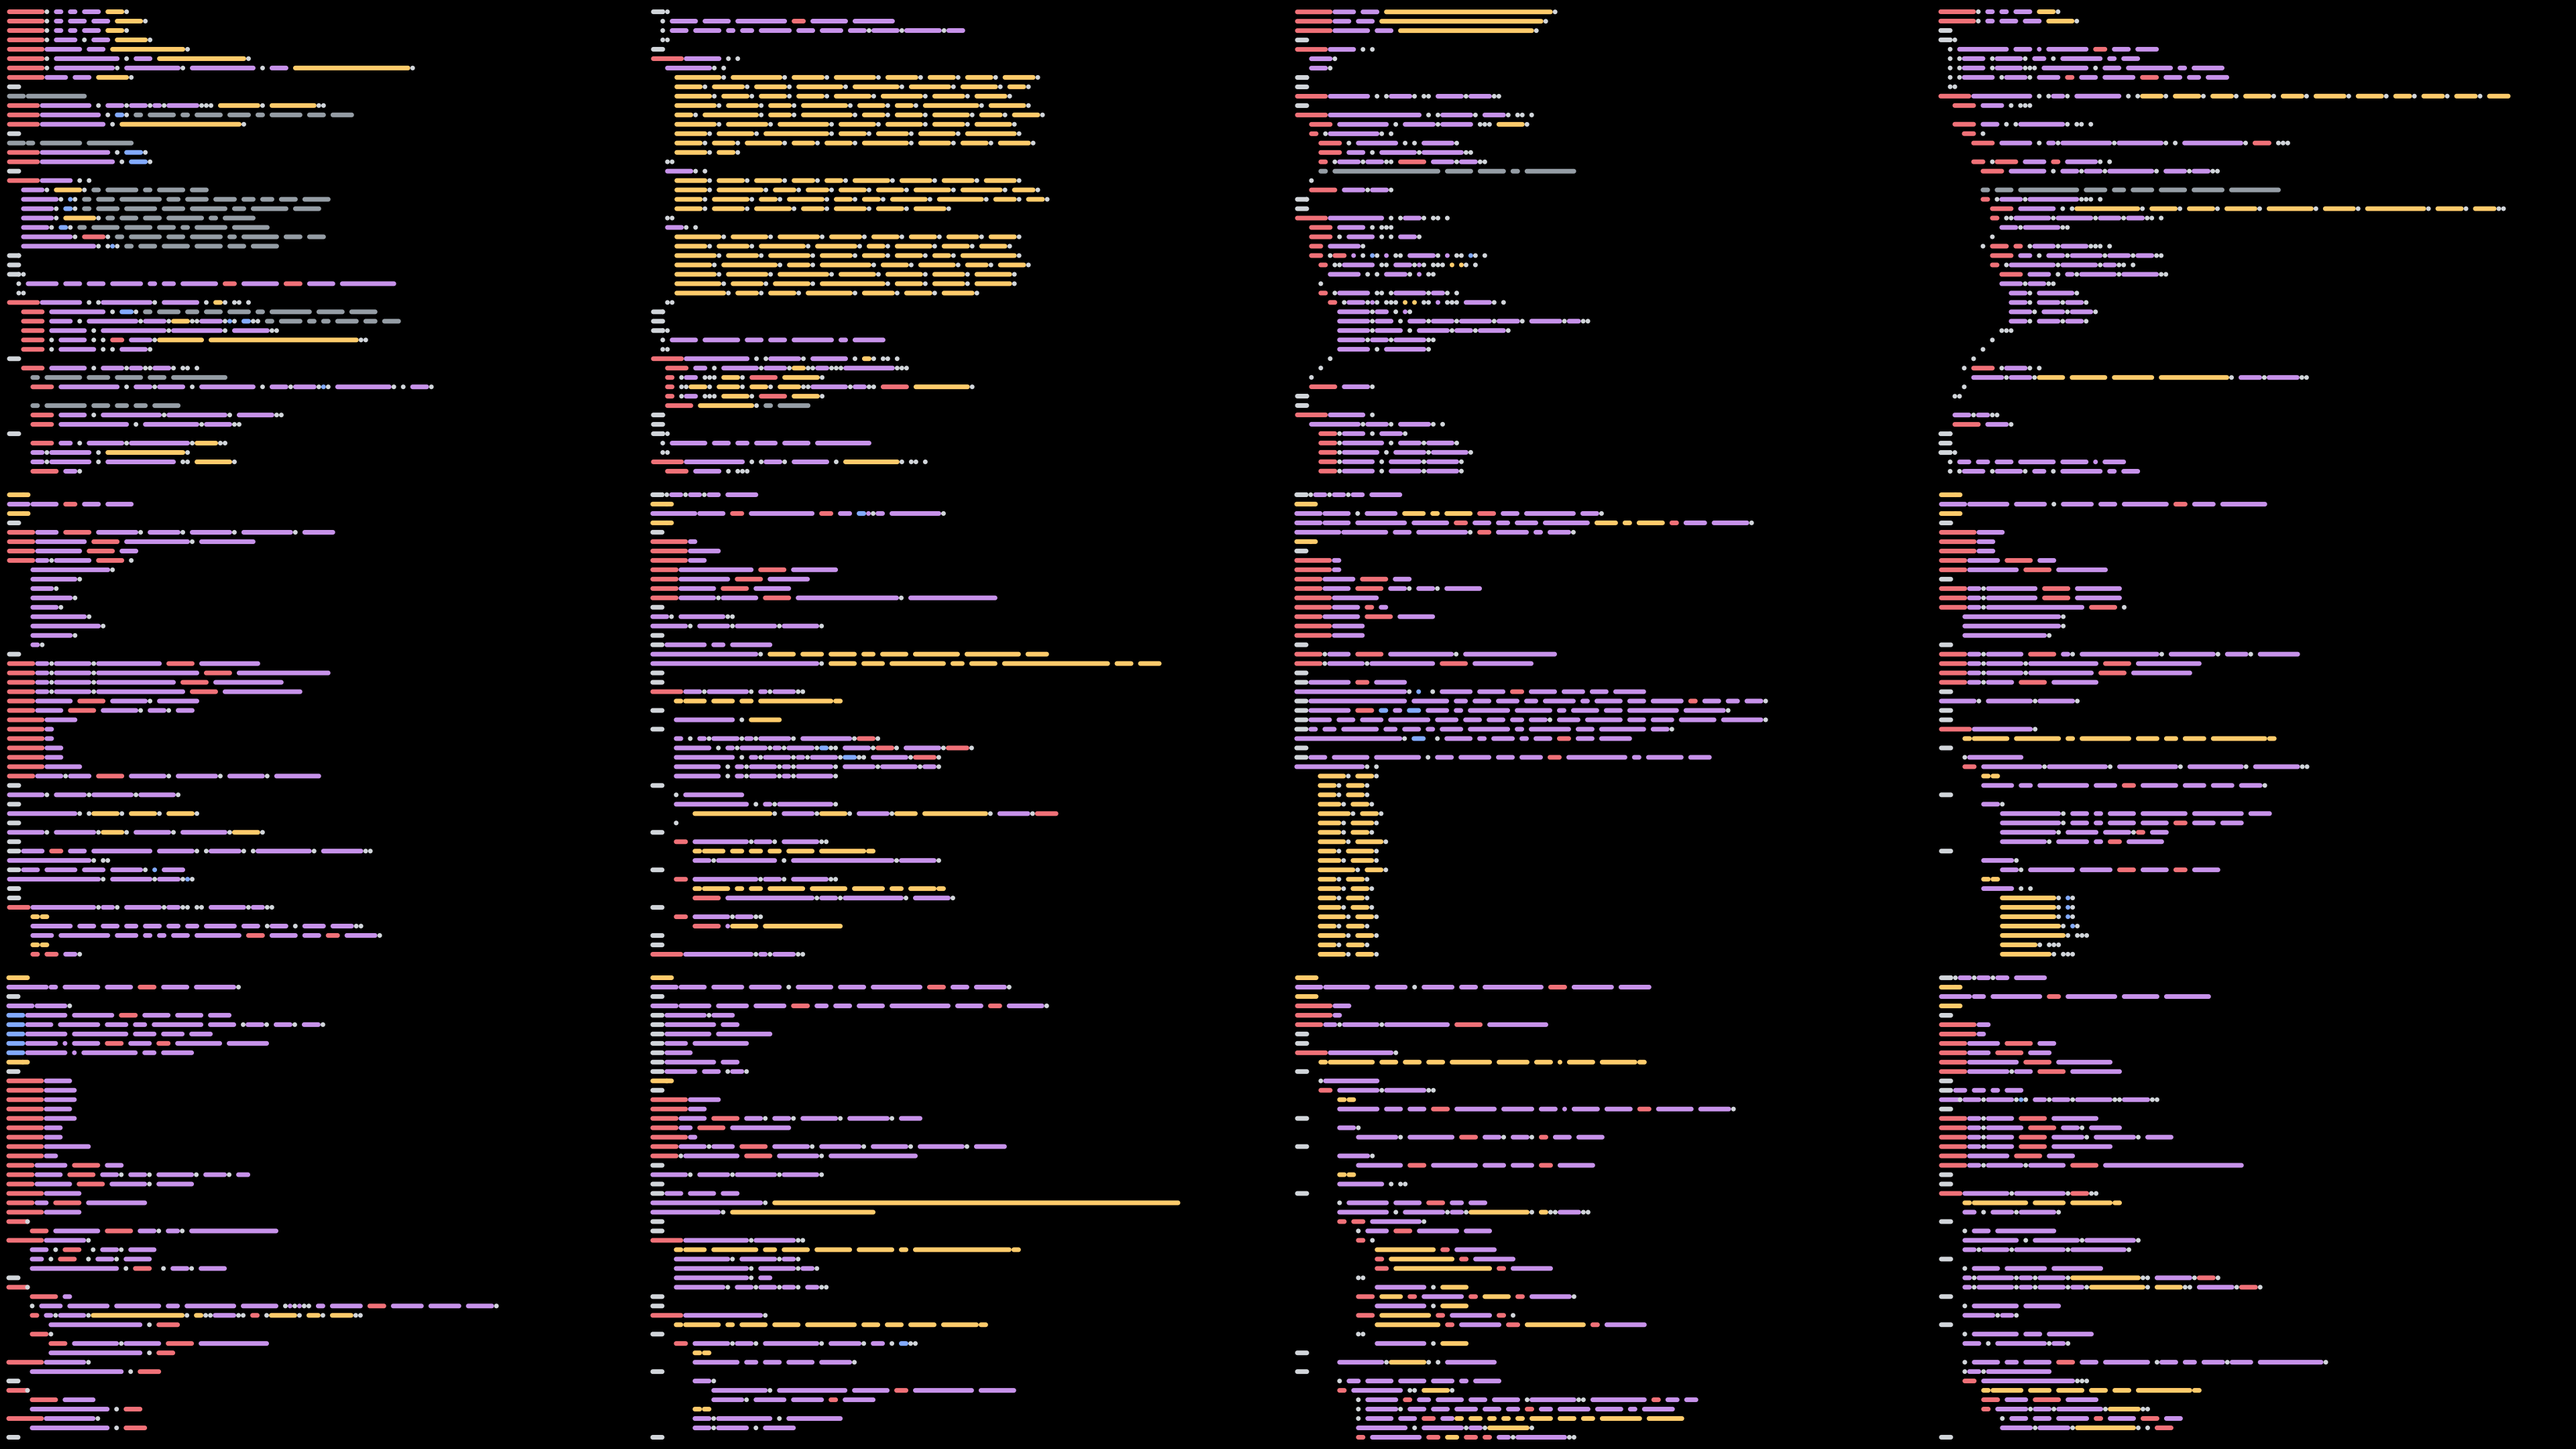
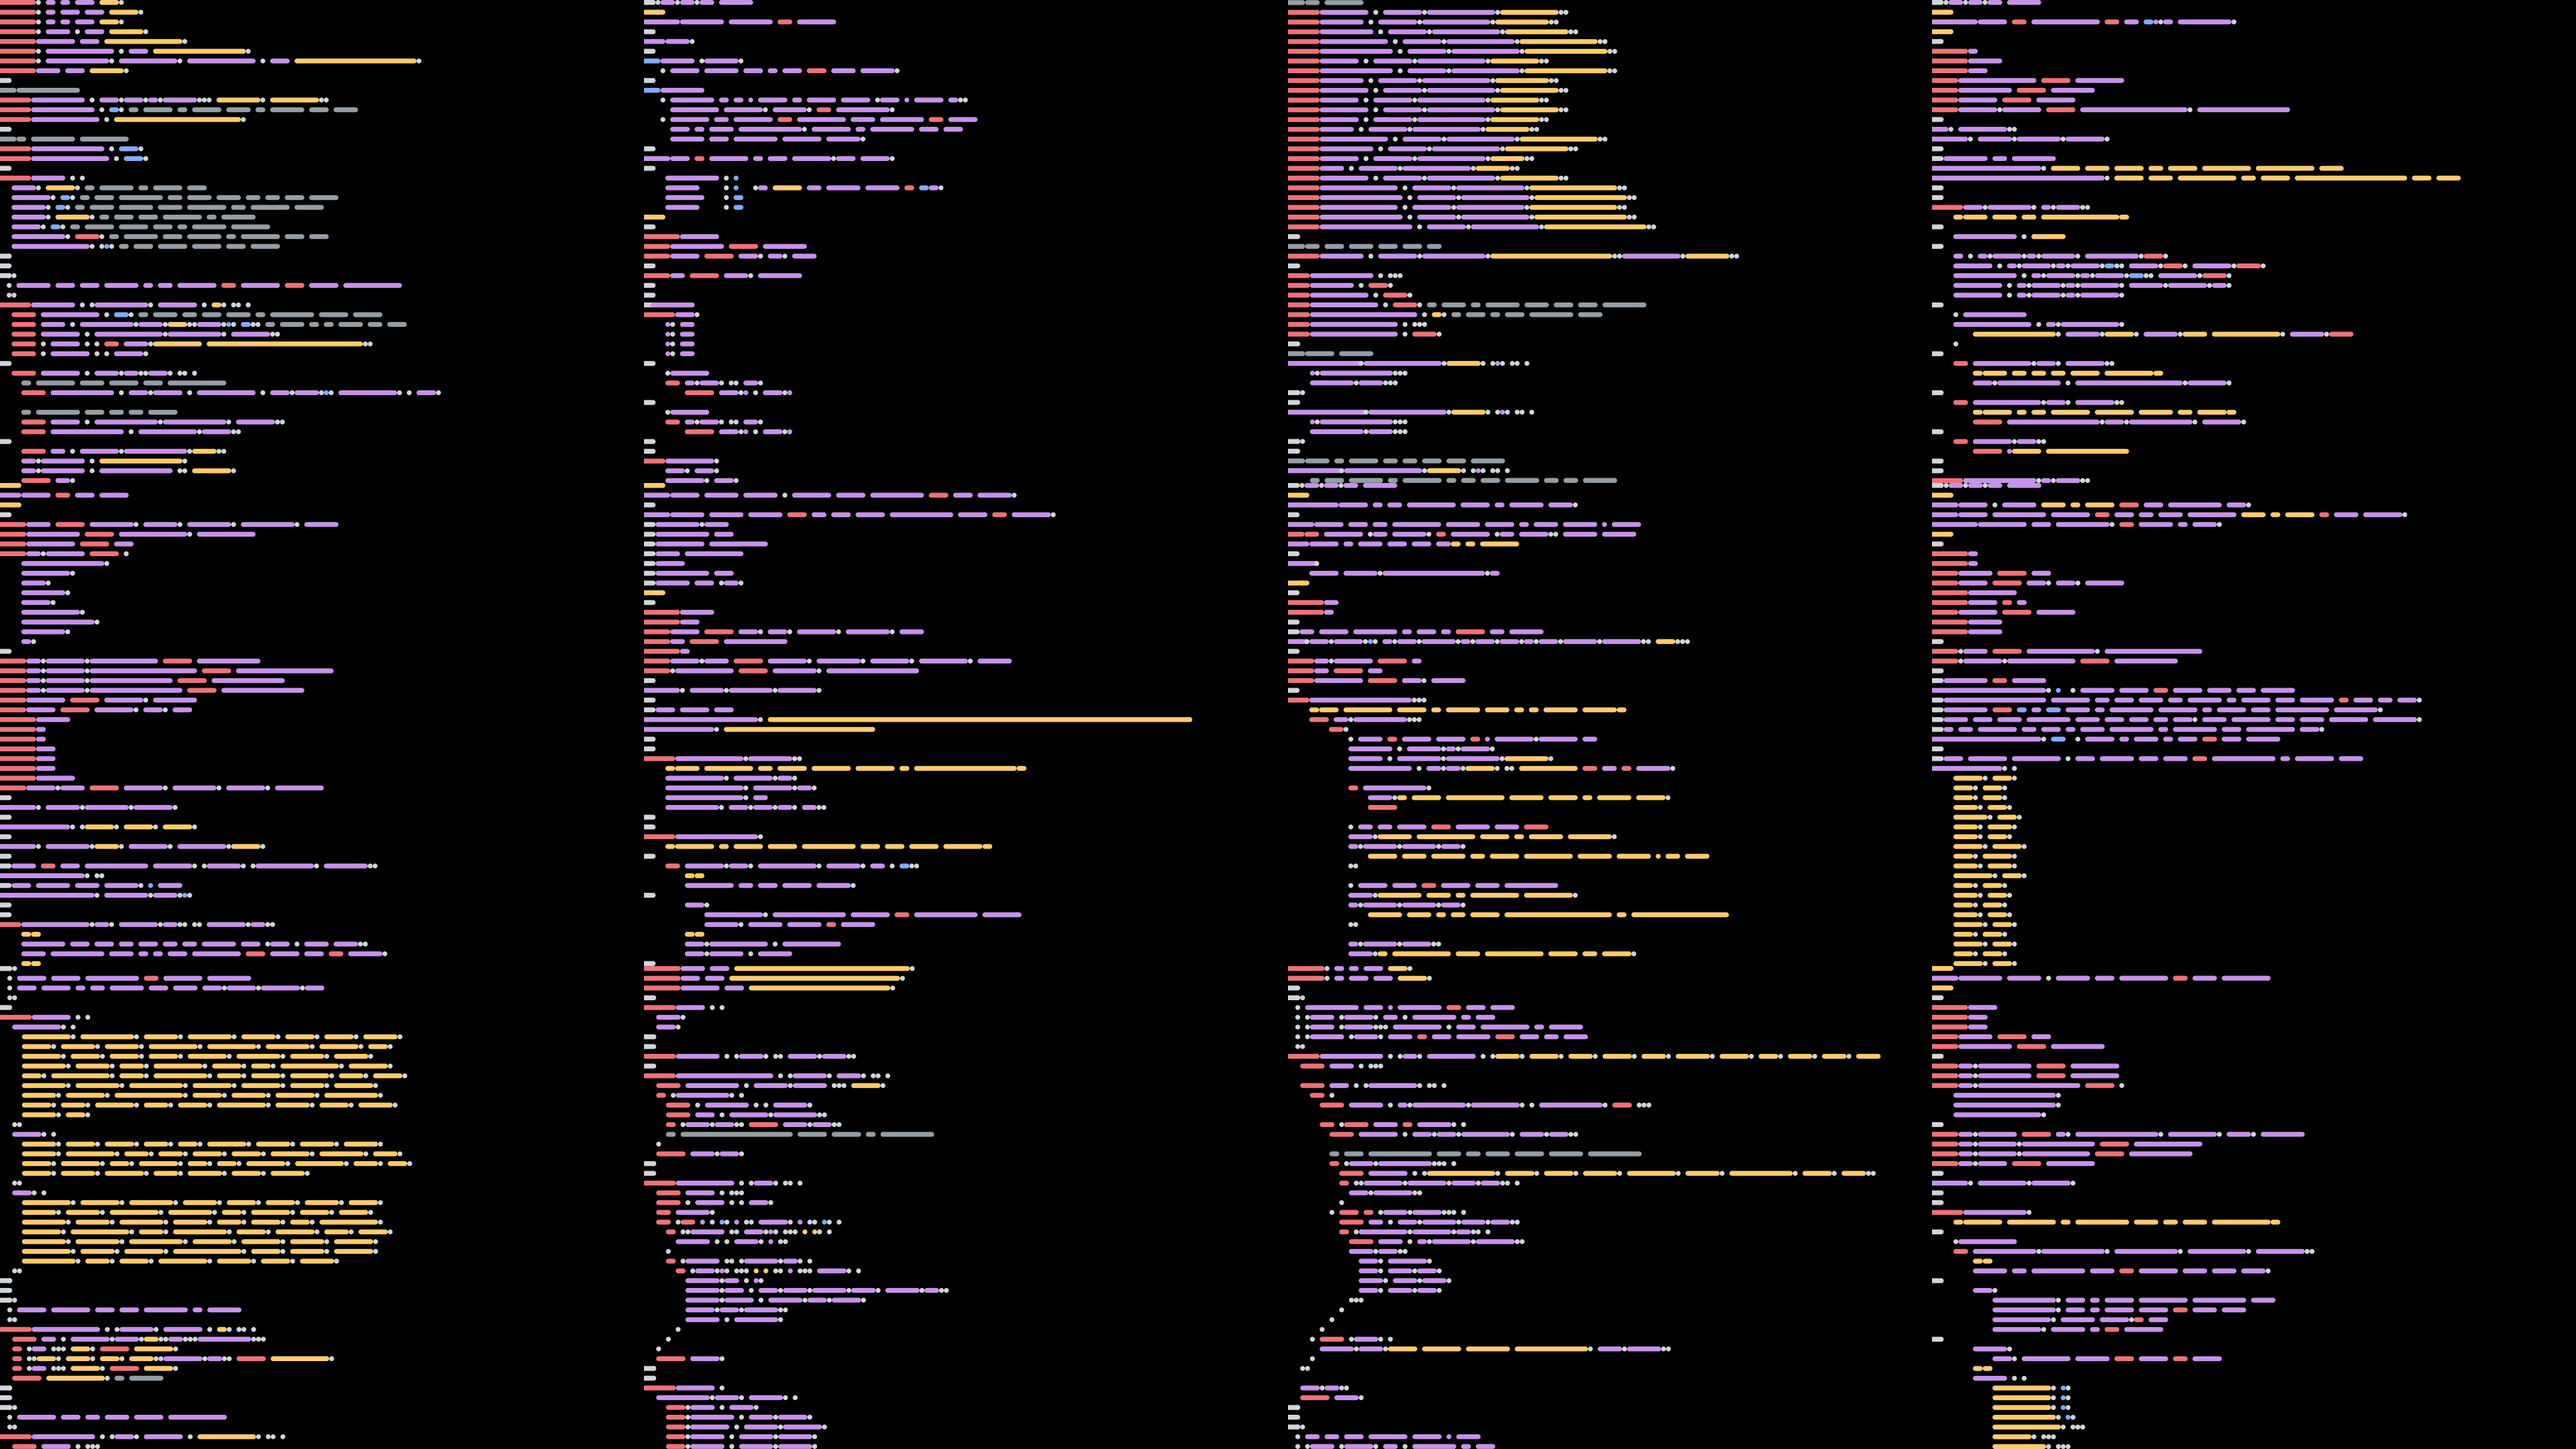
Adjusts wallpaper rendering options for improved appearance
Updates wallpaper configuration to enhance visual clarity:
- Increases font size and line spacing for better readability
- Expands margin to prevent cropping around the code

Applies these changes to improve the overall aesthetics of the wallpaper.

diff --git a/index.js b/index.js
@@ -18,10 +18,10 @@ const WALLPAPER_HEIGHT = 2160;
 
 const options = {
   theme: 'dark', // 'light' or 'dark' mode
-  fontSize: 6, // Line thickness and width (same for all faux codes)
-  leading: 12, // Space between lines (tighter for multiple files)
+  fontSize: 48, // Line thickness and width (same for all faux codes)
+  leading: 96, // Space between lines (tighter for multiple files)
   lineCap: 'round', // Line ends 'square' or 'round'
-  margin: 15, // Margin around code to prevent cropping
+  margin: 24, // Margin around code to prevent cropping
   lineNumbers: false, // Disable line numbers to maximize code area
   lineNumberOffset: -3, // Line number offset from margin
 };
